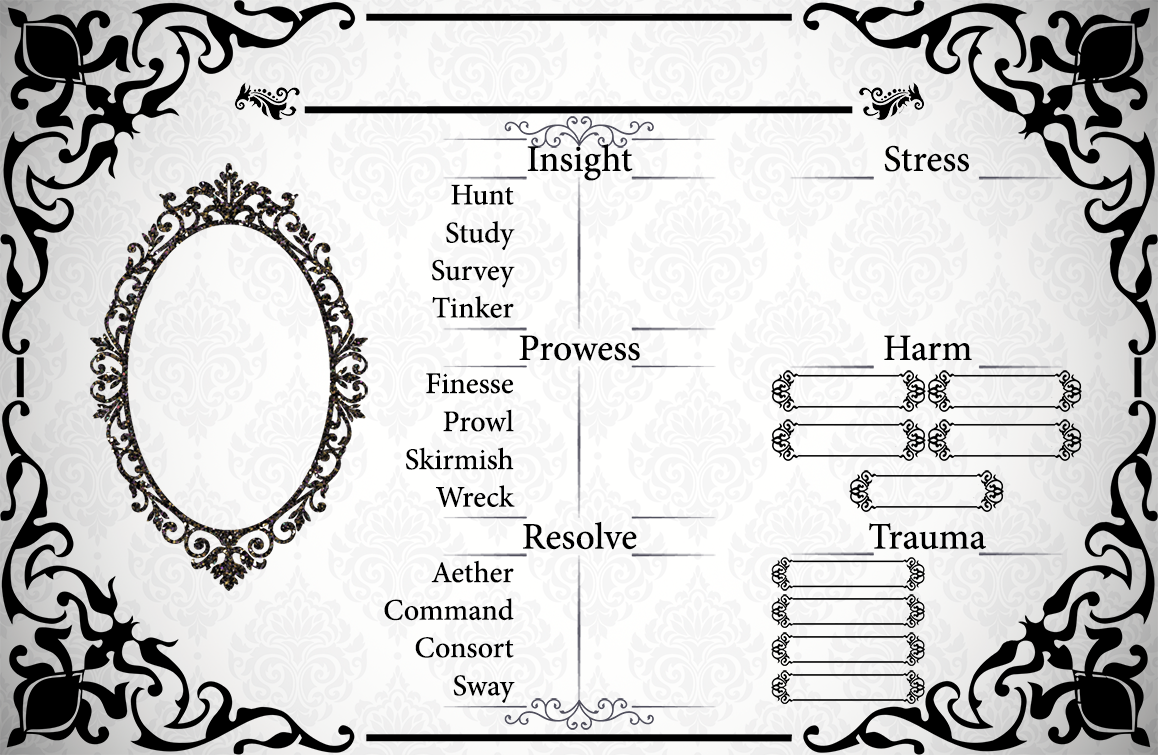
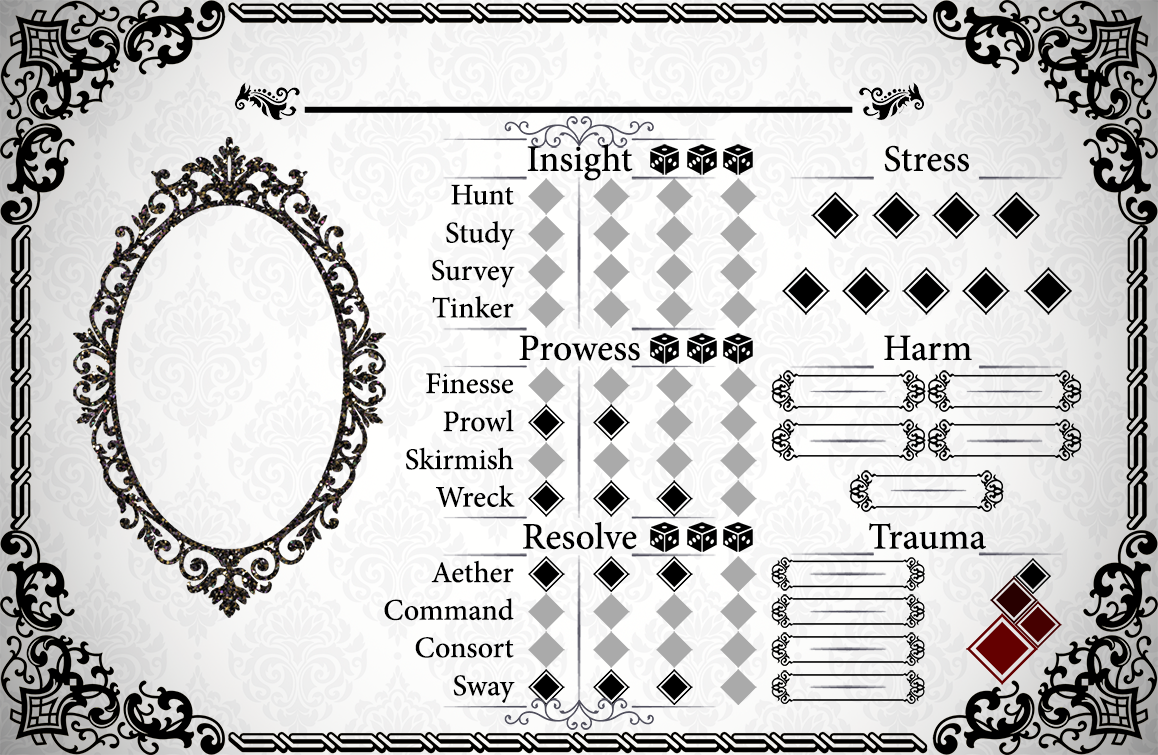
Finished image renderer which produces an image based representation of a character sheet. Assets used for the image are provided in the assets folder. Other templates could be supported in the future, but currently are not.

diff --git a/func/image.py b/func/image.py
@@ -3,18 +3,186 @@ import os
 from clss.CharSheet import CharSheet
 from PIL import Image, ImageDraw, ImageFont
 
+def render(charSheet:CharSheet, coordsName:str, attachFP:str):
+    assetsPath = os.path.abspath("assets")
+    jsonPath = assetsPath + "\\" + coordsName + ".json"
+    coords = json.load(open(jsonPath))
+
+    #load assets
+    blank               = Image.open(assetsPath + "\\blank.png")
+    dash                = Image.open(assetsPath + "\\dash.png")
+    dashMask            = Image.open(assetsPath + "\\dash mask.png").convert('L')
+    dice                = Image.open(assetsPath + "\\dice.png")
+    diceMask            = Image.open(assetsPath + "\\dice mask.png").convert('L')
+    emptyLarge          = Image.open(assetsPath + "\\empty big.png")
+    emptyLargeMask      = Image.open(assetsPath + "\\empty big mask.png").convert('L')
+    emptyMedium         = Image.open(assetsPath + "\\empty medium.png")
+    emptyMediumMask     = Image.open(assetsPath + "\\empty medium mask.png").convert('L')
+    emptySmall          = Image.open(assetsPath + "\\empty small.png")
+    emptySmallMask      = Image.open(assetsPath + "\\empty small mask.png").convert('L')
+    pipLarge            = Image.open(assetsPath + "\\pip large.png")
+    pipLargeRed         = Image.open(assetsPath + "\\pip large red.png")
+    pipLargeMask        = Image.open(assetsPath + "\\pip large mask.png").convert('L')
+    pipMedium           = Image.open(assetsPath + "\\pip medium.png")
+    pipMediumRedLight   = Image.open(assetsPath + "\\pip medium red light.png")
+    pipMediumRedDark    = Image.open(assetsPath + "\\pip medium red dark.png")
+    pipMediumMask       = Image.open(assetsPath + "\\pip medium mask.png").convert('L')
+    pipSmall            = Image.open(assetsPath + "\\pip small.png")
+    pipSmallMask        = Image.open(assetsPath + "\\pip small mask.png").convert('L')
+    portraitMask        = Image.open(assetsPath + "\\portrait mask.png").convert('L')
+
+    if attachFP != "":
+        portrait = Image.open(attachFP)
+    else:
+        portrait = Image.open(assetsPath + "\\portrait mask.png")
+
+    if portrait.width != portraitMask.width or portrait.height != portraitMask.height:
+        portrait = portrait.resize((portraitMask.width, portraitMask.height))
+
+    composite = blank.copy()
+
+    #name
+    pasteText(composite, charSheet.char_name, coords["title"], coords["titlewidth"], coords["titlefontsize"], assetsPath)
+
+    #portrait
+    composite.paste(portrait, strToTuple(coords["portrait"]), mask=portraitMask)
+
+    #skills
+    skills = ["Hunt", "Study", "Survey", "Tinker", "Finesse", "Prowl", "Skirmish", "Wreck", "Aether", "Command", "Consort", "Sway"]
+    for skill in skills:
+        pastePipList(composite, charSheet.skills[skill], coords[skill.lower()], pipSmall, pipSmallMask, emptySmall, emptySmallMask)
+
+    #stress
+    pastePipList(composite, charSheet.stress, coords["stress"], pipMedium, pipMediumMask, emptyMedium, emptyMediumMask)
+
+    #harm
+    harms = charSheet.harm.keys()
+    harmText = coords["harmtext"]
+    harmDash = coords["harmdash"]
+    harmWidth = coords["harmwidth"]
+    harmFontSize = coords["harmfontsize"]
+    slots = []
+    for i in range(len(harmText)):
+        slots.append(True)
+
+    #try to fill the 2 slots one after the other
+    for harm in harms:
+        level = charSheet.harm[harm] - 1
+        for i in range(2):
+            index = (level*2) + i
+            if index < len(slots) and slots[index]:
+                slots[index] = False
+                pasteText(composite, harm, harmText[index], harmWidth, harmFontSize, assetsPath)
+                break
+
+    #draw dash anywhere a harm was not drawn
+    for i in range(len(slots)):
+        if slots[i] == True:
+            composite.paste(dash, strToTuple(harmDash[i]), mask=dashMask)
+
+    #trauma
+    trauma = charSheet.trauma
+    traumaPips = coords["trauma"]
+    traumaText = coords["traumatext"]
+    traumaDash = coords["traumadash"]
+    traumaWidth = coords["traumawidth"]
+    traumaFontSize = coords["traumafontsize"]
+    counter = 0
+    traumaPip = [pipSmall, pipMediumRedLight, pipMediumRedDark, pipLargeRed]
+    traumaPipMasks = [pipSmallMask, pipMediumMask, pipMediumMask, pipLargeMask]
+    traumaEmpty = [emptySmall, emptyMedium, emptyMedium, emptyLarge]
+    traumaEmptyMasks = [emptySmallMask, emptyMediumMask, emptyMediumMask, emptyLargeMask]
+
+    #for every listed trauma, paste the text and the full pip
+    for t in trauma:
+        pasteText(composite, t, traumaText[counter], traumaWidth, traumaFontSize, assetsPath)
+        composite.paste(traumaPip[counter], strToTuple(traumaPips[counter]), mask=traumaPipMasks[counter])
+        counter += 1
+
+    #for every empty slot, draw a dash and an empty pip
+    while counter < 4:
+        composite.paste(dash, strToTuple(traumaDash[counter]), mask=dashMask)
+        composite.paste(traumaEmpty[counter], strToTuple(traumaPips[counter]), mask=traumaEmptyMasks[counter])
+        counter += 1
+
+    #rerolls
+    rerolls = charSheet.rerolls
+    categories = ["Insight", "Prowess", "Resolve"]
+    anyValue = 0
+
+    #Any represents a crit on reroll, and will show up in all 3 skill categories
+    if "Any" in rerolls and rerolls["Any"] > 0:
+        anyValue = rerolls["Any"]
+
+    #for each skill category, render the dice one by one
+    for category in categories:
+        if anyValue > 0:
+            rerollCoords = coords[category.lower()]
+            counter = 0
+            for coord in rerollCoords:
+                if counter < anyValue:
+                    composite.paste(dice, strToTuple(coord), mask=diceMask)
+                    counter += 1
+        elif category in rerolls and rerolls[category] > 0:
+            rerollCoords = coords[category.lower()]
+            rerollValue = rerolls[category]
+            counter=0
+            for coord in rerollCoords:
+                if counter < rerollValue:
+                    composite.paste(dice, strToTuple(coord), mask=diceMask)
+                    counter+=1
+        
+    
+    
+
+    imagePath = assetsPath + "\\composite.png"
+    composite.save(imagePath, format='png')
+
+    return imagePath
+
+def pastePipList(image, stat, pipList, pipFull, pipFullMask, pipEmpty, pipEmptyMask):
+    counter = 0
+    for pip in pipList:
+        if counter < stat:
+            image.paste(pipFull, strToTuple(pip), mask=pipFullMask)
+        else:
+            image.paste(pipEmpty, strToTuple(pip), mask=pipEmptyMask)
+        counter += 1
+
+def pasteText(image, text, point, width, fontsize, assetsPath):
+    fontSize, originalH = generateFontSize(text, width, fontsize, assetsPath)
+    minFont = ImageFont.truetype(assetsPath + "\\minion.otf", fontSize)
+    W, H = strToTuple(point)
+    draw = ImageDraw.Draw(image)
+    w, h = minFont.getsize(text)
+    #offset draw point start by half of the text's width (center justify) and down a small factor for its height, if the font size was lowered
+    draw.text((W - w/2, H + (originalH - h)/2), text, fill='black', font=minFont)
+
+def generateFontSize(text, maxWidth, baseFontSize, assetsPath) -> (int, int):
+    minionFont = ImageFont.truetype(assetsPath + "\\minion.otf", baseFontSize)
+    w, h = minionFont.getsize(text)
+    fontSize = baseFontSize
+    originalH = h
+
+    while w > maxWidth and fontSize > 1:
+        fontSize -= 1
+        minionFont = ImageFont.truetype(assetsPath + "\\minion.otf", fontSize)
+        w, h = minionFont.getsize(text)
+
+    return (fontSize, originalH)
+
 def test():
     #relative file path for the assets folder
     assetsPath = os.path.abspath("assets")
 
     #load images needed for compositing
     emptyTemplate = Image.open(assetsPath + "\\empty.png")
-    nula = Image.open(assetsPath + "\\nula.png")
-    portraitMask = Image.open(assetsPath + "\\portraitMask.png").convert('L')
+    nula = Image.open(assetsPath + "\\towernula.png")
+    portraitMask = Image.open(assetsPath + "\\mask.png").convert('L')
     
     #composite nula image into template
     composite = emptyTemplate.copy()
-    composite.paste(nula, (72, 220), mask=portraitMask)
+    composite.paste(nula, (114, 204), mask=portraitMask)
 
     #text generation
     name = "Nula Pepper"
@@ -41,4 +209,6 @@ def test():
 
     return imagePath
 
-
+def strToTuple(s : str) -> (int, int):
+    split = s.split(",")
+    return (int(split[0]), int(split[1]))

diff --git a/com/CoreCommands.py b/com/CoreCommands.py
@@ -1,5 +1,6 @@
 import discord
 import time
+import os
 from discord.ext import commands
 
 from func import core, image
@@ -22,6 +23,32 @@ class CoreCommands(commands.Cog):
         await channel.send(file=discord.File(path))
         end = time.time()
         await channel.send(f'Image generated in {afterImage - start} seconds and took {end - afterImage} seconds to post to discord.')
+
+    @commands.command()
+    async def render(self, ctx, char_id):
+        channel = discord.utils.get(ctx.guild.channels, name='oath-sheets')
+
+        _id = f'ID: {char_id}'
+        _found = False
+        _charsheet = CharSheet()
+        assetsPath = os.path.abspath("assets")
+
+        msg = await core.find_message(channel, char_id)
+        if msg and (msg.author.id == self.bot.user.id):
+            _charsheet = core.create_charsheet(msg)
+
+        attachFP = ""
+
+        if any(msg.attachments):
+            for attachment in msg.attachments:
+                if attachment.filename.lower().endswith(".png"):
+                    attachFP = assetsPath + f"\\{char_id}_portrait.png"
+                    await attachment.save(attachFP)
+
+        path = image.render(_charsheet, "ornate coords", attachFP)
+        await channel.send(file=discord.File(path))
+
+        
 
     @commands.command()
     async def findsheet(self, ctx, char_id):
@@ -63,15 +90,22 @@ class CoreCommands(commands.Cog):
         channel = discord.utils.get(ctx.guild.channels, name='oath-sheets')
         _id = f'ID: {char_id}'
         _found = False
+        assetsPath = os.path.abspath("assets")
 
         async for msg in channel.history(limit=1000):
 
-            if _id in msg.content:
+            if (msg.author.id != self.bot.user.id) and _id in msg.content:
                 _data = msg.content.split('\n')
                 _charsheet = CharSheet()
                 _charsheet.parse(_data)
 
-                await channel.send(_charsheet.print(), components=self.stressButtons)
+                if any(msg.attachments):
+                    for attachment in msg.attachments:
+                        if attachment.filename.lower().endswith(".png"):
+                            await attachment.save(assetsPath + f"\\{char_id}.png")
+
+                discFile = discord.File(assetsPath + f"\\{char_id}.png")
+                await channel.send(_charsheet.print(), components=self.stressButtons, file=discFile)
                 await msg.delete()
 
     @commands.command()

diff --git a/clss/CharSheet.py b/clss/CharSheet.py
@@ -102,7 +102,7 @@ class CharSheet:
                 output += f'{k} {(dot+space)*v}\n'
 
         # stress
-        if stress == 0:
+        if self.stress == 0:
             output += f'Stress [ {dash} ]\n'
         else:
             output += f'Stress [ {(dot+space)*self.stress}]\n'

diff --git a/func/core.py b/func/core.py
@@ -43,6 +43,7 @@ def bracket_split(data):
     _data = [e.strip(' ') for e in _data]
     del _data[0]
     _data = [s.title() for s in _data]
+    _data = [s for s in _data if '\u2014' not in s]
     return _data
 
 
